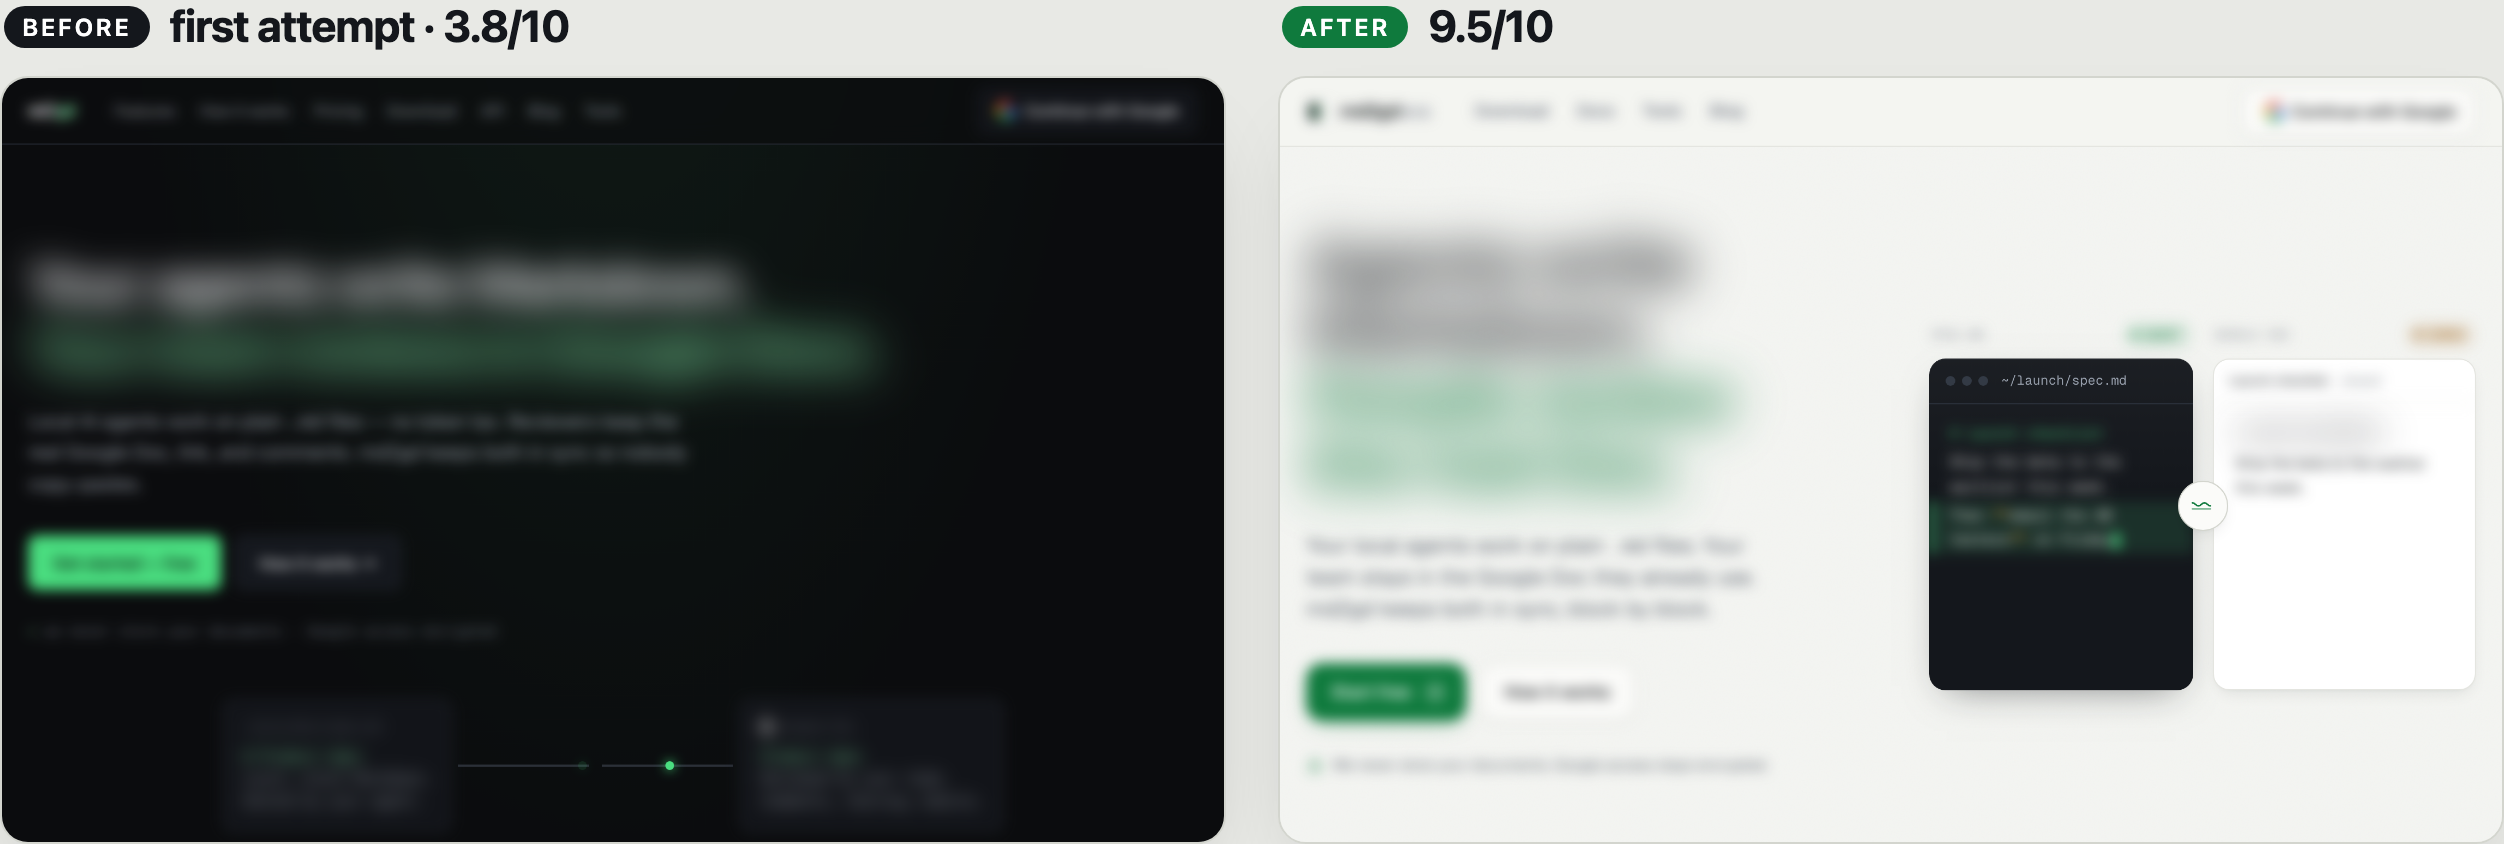
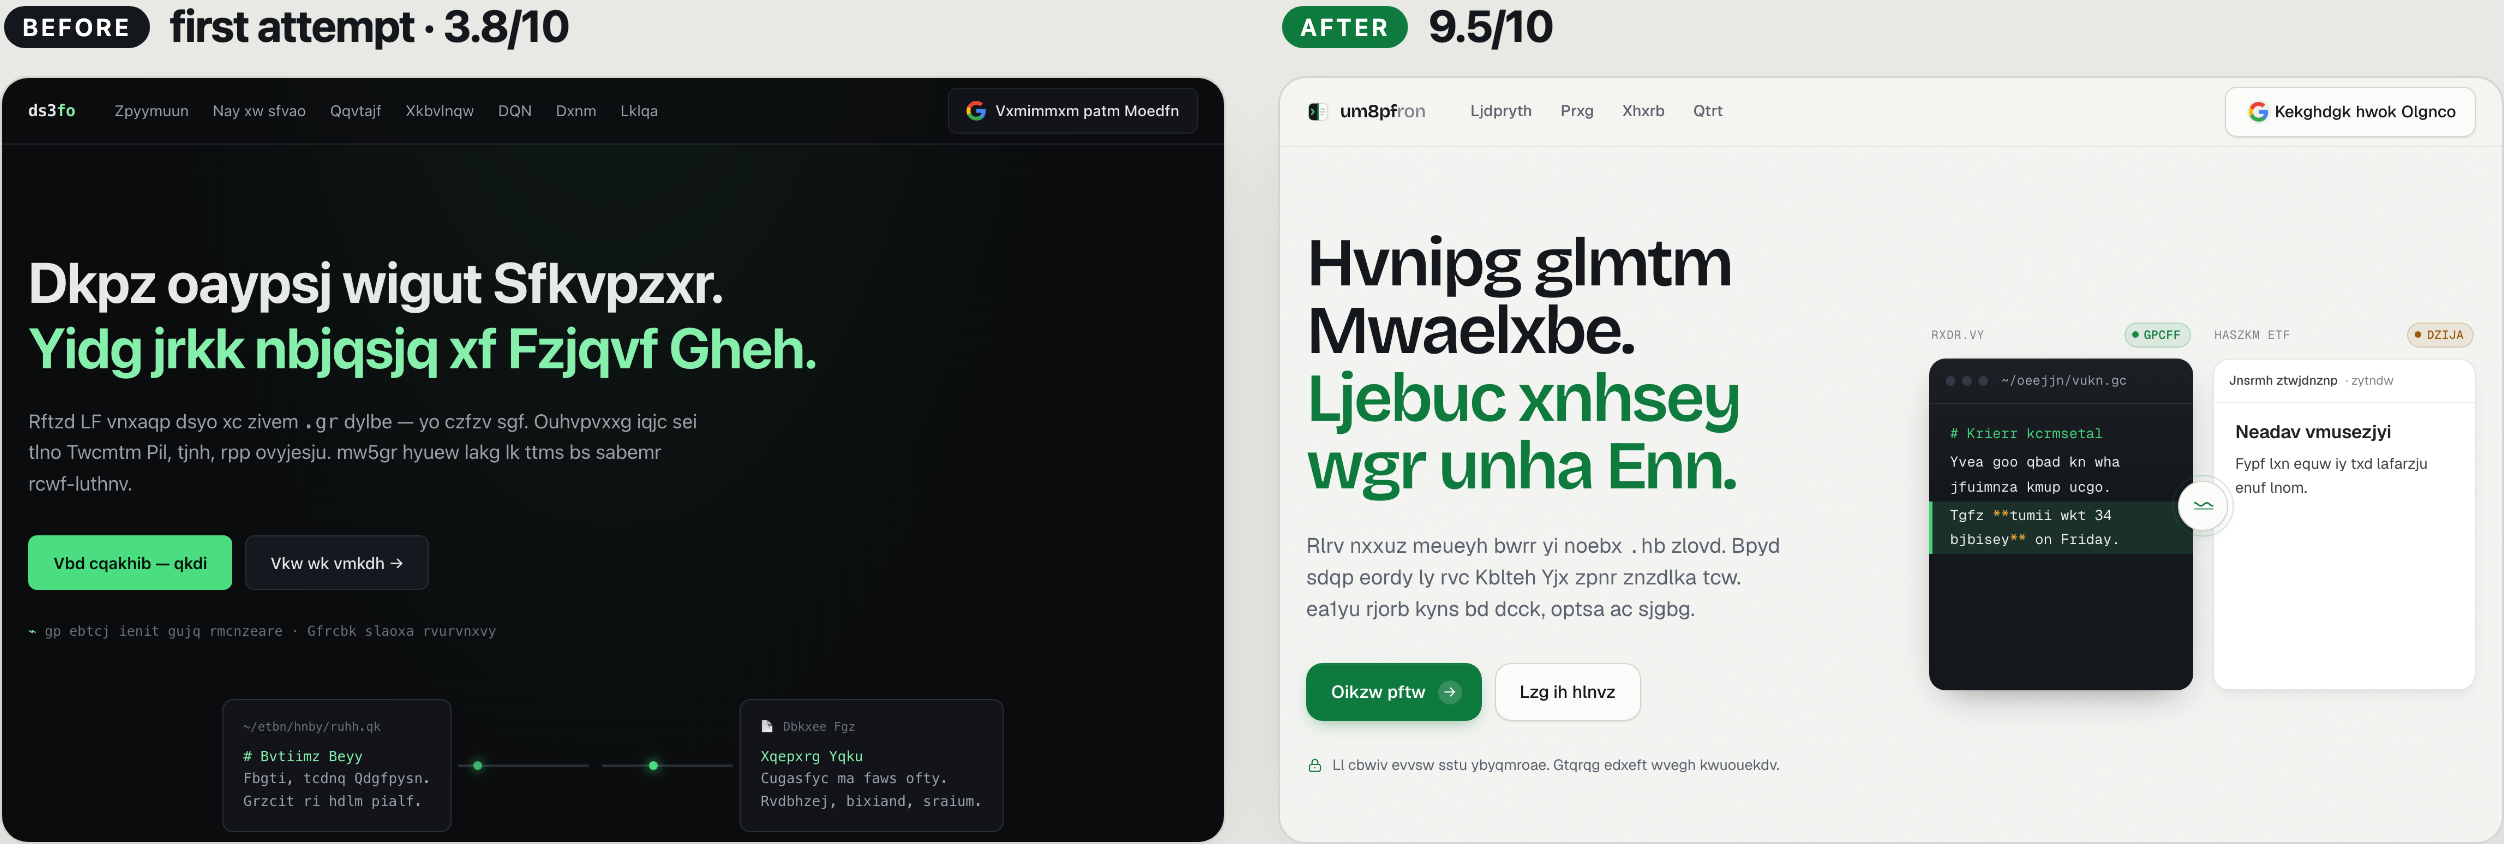
post: jumble the before/after words instead of blurring (crisp, still untraceable)

diff --git a/_posts/2026-08-12-i-made-good-design-confirmable.md b/_posts/2026-08-12-i-made-good-design-confirmable.md
@@ -12,9 +12,9 @@ The real problem wasn't the colors. It was that "make it look better" is a terri
 
 So this time I tried something different. Instead of chasing "better," I turned good design into a number I could measure, and then chase.
 
-![Left: my first attempt, a dark page with a single green accent. Right: the redesign, a lighter, more composed layout. Text is intentionally blurred.]({{ "/assets/design-rater/landing-before-after.png" | absolute_url }})
+![Left: my first attempt, a dark page with a single green accent. Right: the redesign, a lighter, more composed layout. The words are intentionally scrambled.]({{ "/assets/design-rater/landing-before-after.png" | absolute_url }})
 
-*(Same landing page, first attempt on the left and the final on the right. I've blurred the words on purpose; the point here is the craft, not the copy.)*
+*(Same landing page, first attempt on the left and the final on the right. I've jumbled the actual words on purpose; the point here is the craft, not the copy.)*
 
 ## Getting a score I trusted
 
